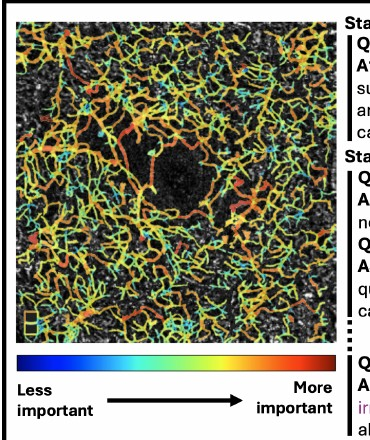
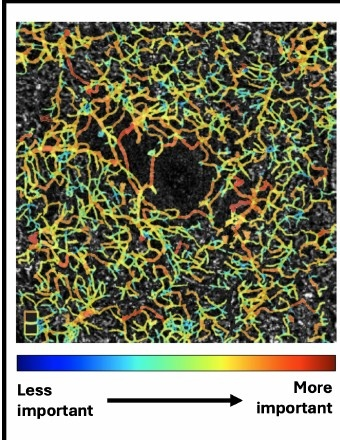
Audit research image crops

diff --git a/index.html b/index.html
@@ -29,12 +29,12 @@
     {"@context":"https://schema.org","@type":"Organization","name":"Paetzold Lab","url":"https://paetzold-lab.github.io/web/","logo":"https://paetzold-lab.github.io/web/images/web_logo.png","description":"Paetzold Lab develops machine learning methods for computer vision, medical imaging, topology, graph learning, and generative AI at Weill Cornell Medicine and Cornell Tech.","parentOrganization":[{"@type":"CollegeOrUniversity","name":"Weill Cornell Medicine"},{"@type":"CollegeOrUniversity","name":"Cornell Tech"}]}
   </script>
 
-  <link rel="stylesheet" href="css/style.css?v=20260615w" />
+  <link rel="stylesheet" href="css/style.css?v=20260615x" />
   <link rel="stylesheet" href="css/contact.css?v=20260615l" />
   <link rel="stylesheet" href="css/research_show.css?v=20260615l" />
-  <script src="js/components.js?v=20260615w" defer></script>
-  <script src="js/main.js?v=20260615w" defer></script>
-  <script src="js/featured-publications.js?v=20260615w" defer></script>
+  <script src="js/components.js?v=20260615x" defer></script>
+  <script src="js/main.js?v=20260615x" defer></script>
+  <script src="js/featured-publications.js?v=20260615x" defer></script>
 </head>
 <body>
   <!-- Component placeholders -->

diff --git a/research.html b/research.html
@@ -23,11 +23,11 @@
   <meta name="twitter:description" content="Recent and representative publications from Paetzold Lab in medical imaging, topology, graph learning, generative AI, and vision-language models." />
   <meta name="twitter:image" content="https://paetzold-lab.github.io/web/images/team/paetzold-lab-group-2026.jpg" />
 
-  <link rel="stylesheet" href="css/style.css?v=20260615w">
+  <link rel="stylesheet" href="css/style.css?v=20260615x">
   <link rel="stylesheet" href="css/research.css?v=20260615m">
-  <script src="js/components.js?v=20260615w" defer></script>
-  <script src="js/main.js?v=20260615w" defer></script>
-  <script type="module" src="js/publications.js?v=20260615w" defer></script>
+  <script src="js/components.js?v=20260615x" defer></script>
+  <script src="js/main.js?v=20260615x" defer></script>
+  <script type="module" src="js/publications.js?v=20260615x" defer></script>
 </head>
 <body>
   <!-- Component placeholders -->

diff --git a/contact.html b/contact.html
@@ -23,10 +23,10 @@
   <meta name="twitter:description" content="Contact Paetzold Lab at Weill Cornell Medicine and Cornell Tech." />
   <meta name="twitter:image" content="https://paetzold-lab.github.io/web/images/team/paetzold-lab-group-2026.jpg" />
 
-  <link rel="stylesheet" href="css/style.css?v=20260615w">
+  <link rel="stylesheet" href="css/style.css?v=20260615x">
   <link rel="stylesheet" href="css/contact.css?v=20260615l">
-  <script src="js/components.js?v=20260615w" defer></script>
-  <script src="js/main.js?v=20260615w" defer></script>
+  <script src="js/components.js?v=20260615x" defer></script>
+  <script src="js/main.js?v=20260615x" defer></script>
 </head>
 <body>
   <div id="header-placeholder"></div>

diff --git a/join_us.html b/join_us.html
@@ -23,11 +23,11 @@
   <meta name="twitter:description" content="Open positions and collaboration opportunities for researchers and students at Paetzold Lab." />
   <meta name="twitter:image" content="https://paetzold-lab.github.io/web/images/team/paetzold-lab-group-2026.jpg" />
 
-  <link rel="stylesheet" href="css/style.css?v=20260615w" />
+  <link rel="stylesheet" href="css/style.css?v=20260615x" />
   <link rel="stylesheet" href="css/joinus.css?v=20260615l" />
   <link rel="stylesheet" href="css/contact.css?v=20260615l" />
-  <script src="js/components.js?v=20260615w" defer></script>
-  <script src="js/main.js?v=20260615w" defer></script>
+  <script src="js/components.js?v=20260615x" defer></script>
+  <script src="js/main.js?v=20260615x" defer></script>
 </head>
 <body>
   <!-- Component placeholders -->

diff --git a/pi.html b/pi.html
@@ -24,9 +24,9 @@
   <meta name="twitter:image" content="https://paetzold-lab.github.io/web/images/portrait/Johannes.jpg" />
 
   <!-- Main CSS (reuse same style) -->
-  <link rel="stylesheet" href="css/style.css?v=20260615w" />
-  <script src="js/components.js?v=20260615w" defer></script>
-  <script src="js/main.js?v=20260615w" defer></script>
+  <link rel="stylesheet" href="css/style.css?v=20260615x" />
+  <script src="js/components.js?v=20260615x" defer></script>
+  <script src="js/main.js?v=20260615x" defer></script>
 </head>
 <body>
   <!-- Component placeholders -->

diff --git a/team.html b/team.html
@@ -23,10 +23,10 @@
   <meta name="twitter:description" content="Meet the researchers and collaborators of Paetzold Lab at Weill Cornell Medicine and Cornell Tech." />
   <meta name="twitter:image" content="https://paetzold-lab.github.io/web/images/team/paetzold-lab-group-2026.jpg" />
 
-  <link rel="stylesheet" href="css/style.css?v=20260615w" />
+  <link rel="stylesheet" href="css/style.css?v=20260615x" />
   <link rel="stylesheet" href="css/research.css?v=20260615m">
-  <script src="js/components.js?v=20260615w" defer></script>
-  <script src="js/main.js?v=20260615w" defer></script>
+  <script src="js/components.js?v=20260615x" defer></script>
+  <script src="js/main.js?v=20260615x" defer></script>
 </head>
 <body>
   <!-- Component placeholders -->

diff --git a/js/components.js b/js/components.js
@@ -1,4 +1,4 @@
-const COMPONENT_VERSION = "20260615w";
+const COMPONENT_VERSION = "20260615x";
 const COMPONENT_SCRIPT_URL = document.currentScript?.src
   ? new URL(document.currentScript.src, document.baseURI)
   : new URL("./js/components.js", document.baseURI);

diff --git a/js/featured-publications.js b/js/featured-publications.js
@@ -83,7 +83,7 @@ const HERO_TEASERS = {
   auto_6295fd2b61: "Synthetic OCTA data teaches VLMs clinical reasoning."
 };
 
-const DATA_VERSION = window.PaetzoldSite?.componentVersion || "20260615w";
+const DATA_VERSION = window.PaetzoldSite?.componentVersion || "20260615x";
 
 function escapeHTML(value) {
   return String(value ?? "").replace(/[&<>"']/g, char => ({

diff --git a/js/publications.js b/js/publications.js
@@ -20,7 +20,7 @@ const LAB_MEMBER_ALIASES = {
   "Roel van Herten": ["Rudolf van Herten", "R van Herten", "R. van Herten", "R v Herten", "RLM van Herten"],
   "Lucas Stoffl": ["L Stoffl"]
 };
-const DATA_VERSION = window.PaetzoldSite?.componentVersion || "20260615w";
+const DATA_VERSION = window.PaetzoldSite?.componentVersion || "20260615x";
 
 function siteAssetPath(path) {
   if (window.PaetzoldSite?.assetPath) return window.PaetzoldSite.assetPath(path);

diff --git a/scripts/research_pipeline.py b/scripts/research_pipeline.py
@@ -245,9 +245,15 @@ MANUAL_METADATA_OVERRIDES: Dict[str, Dict[str, Any]] = {
         "thumbnail": "images/publications/manual_added/collateral_flow_stroke_figure1.jpg",
         "thumbnail_source": "manual-crop",
     },
+    "pub038": {
+        "thumbnail": "images/publications/manual_added/quality_estimation_segmentation_ensembles_figure1.jpg",
+        "thumbnail_source": "manual-crop",
+    },
     "auto_74ca8cdcb0": {
         "url": "https://arxiv.org/abs/2604.12144",
         "pdf_link": "https://arxiv.org/pdf/2604.12144",
+        "thumbnail": "images/publications/hero/auto_74ca8cdcb0-primary.jpg",
+        "thumbnail_source": "manual-crop",
         "llm_tags": [
             "verifiable reasoning",
             "agentic systems",
@@ -344,6 +350,8 @@ MANUAL_METADATA_OVERRIDES: Dict[str, Dict[str, Any]] = {
         },
     },
     "auto_6295fd2b61": {
+        "thumbnail": "images/publications/hero/auto_6295fd2b61-primary.jpg",
+        "thumbnail_source": "manual-crop",
         "llm_tags": [
             "medical VLM",
             "synthetic vasculature",